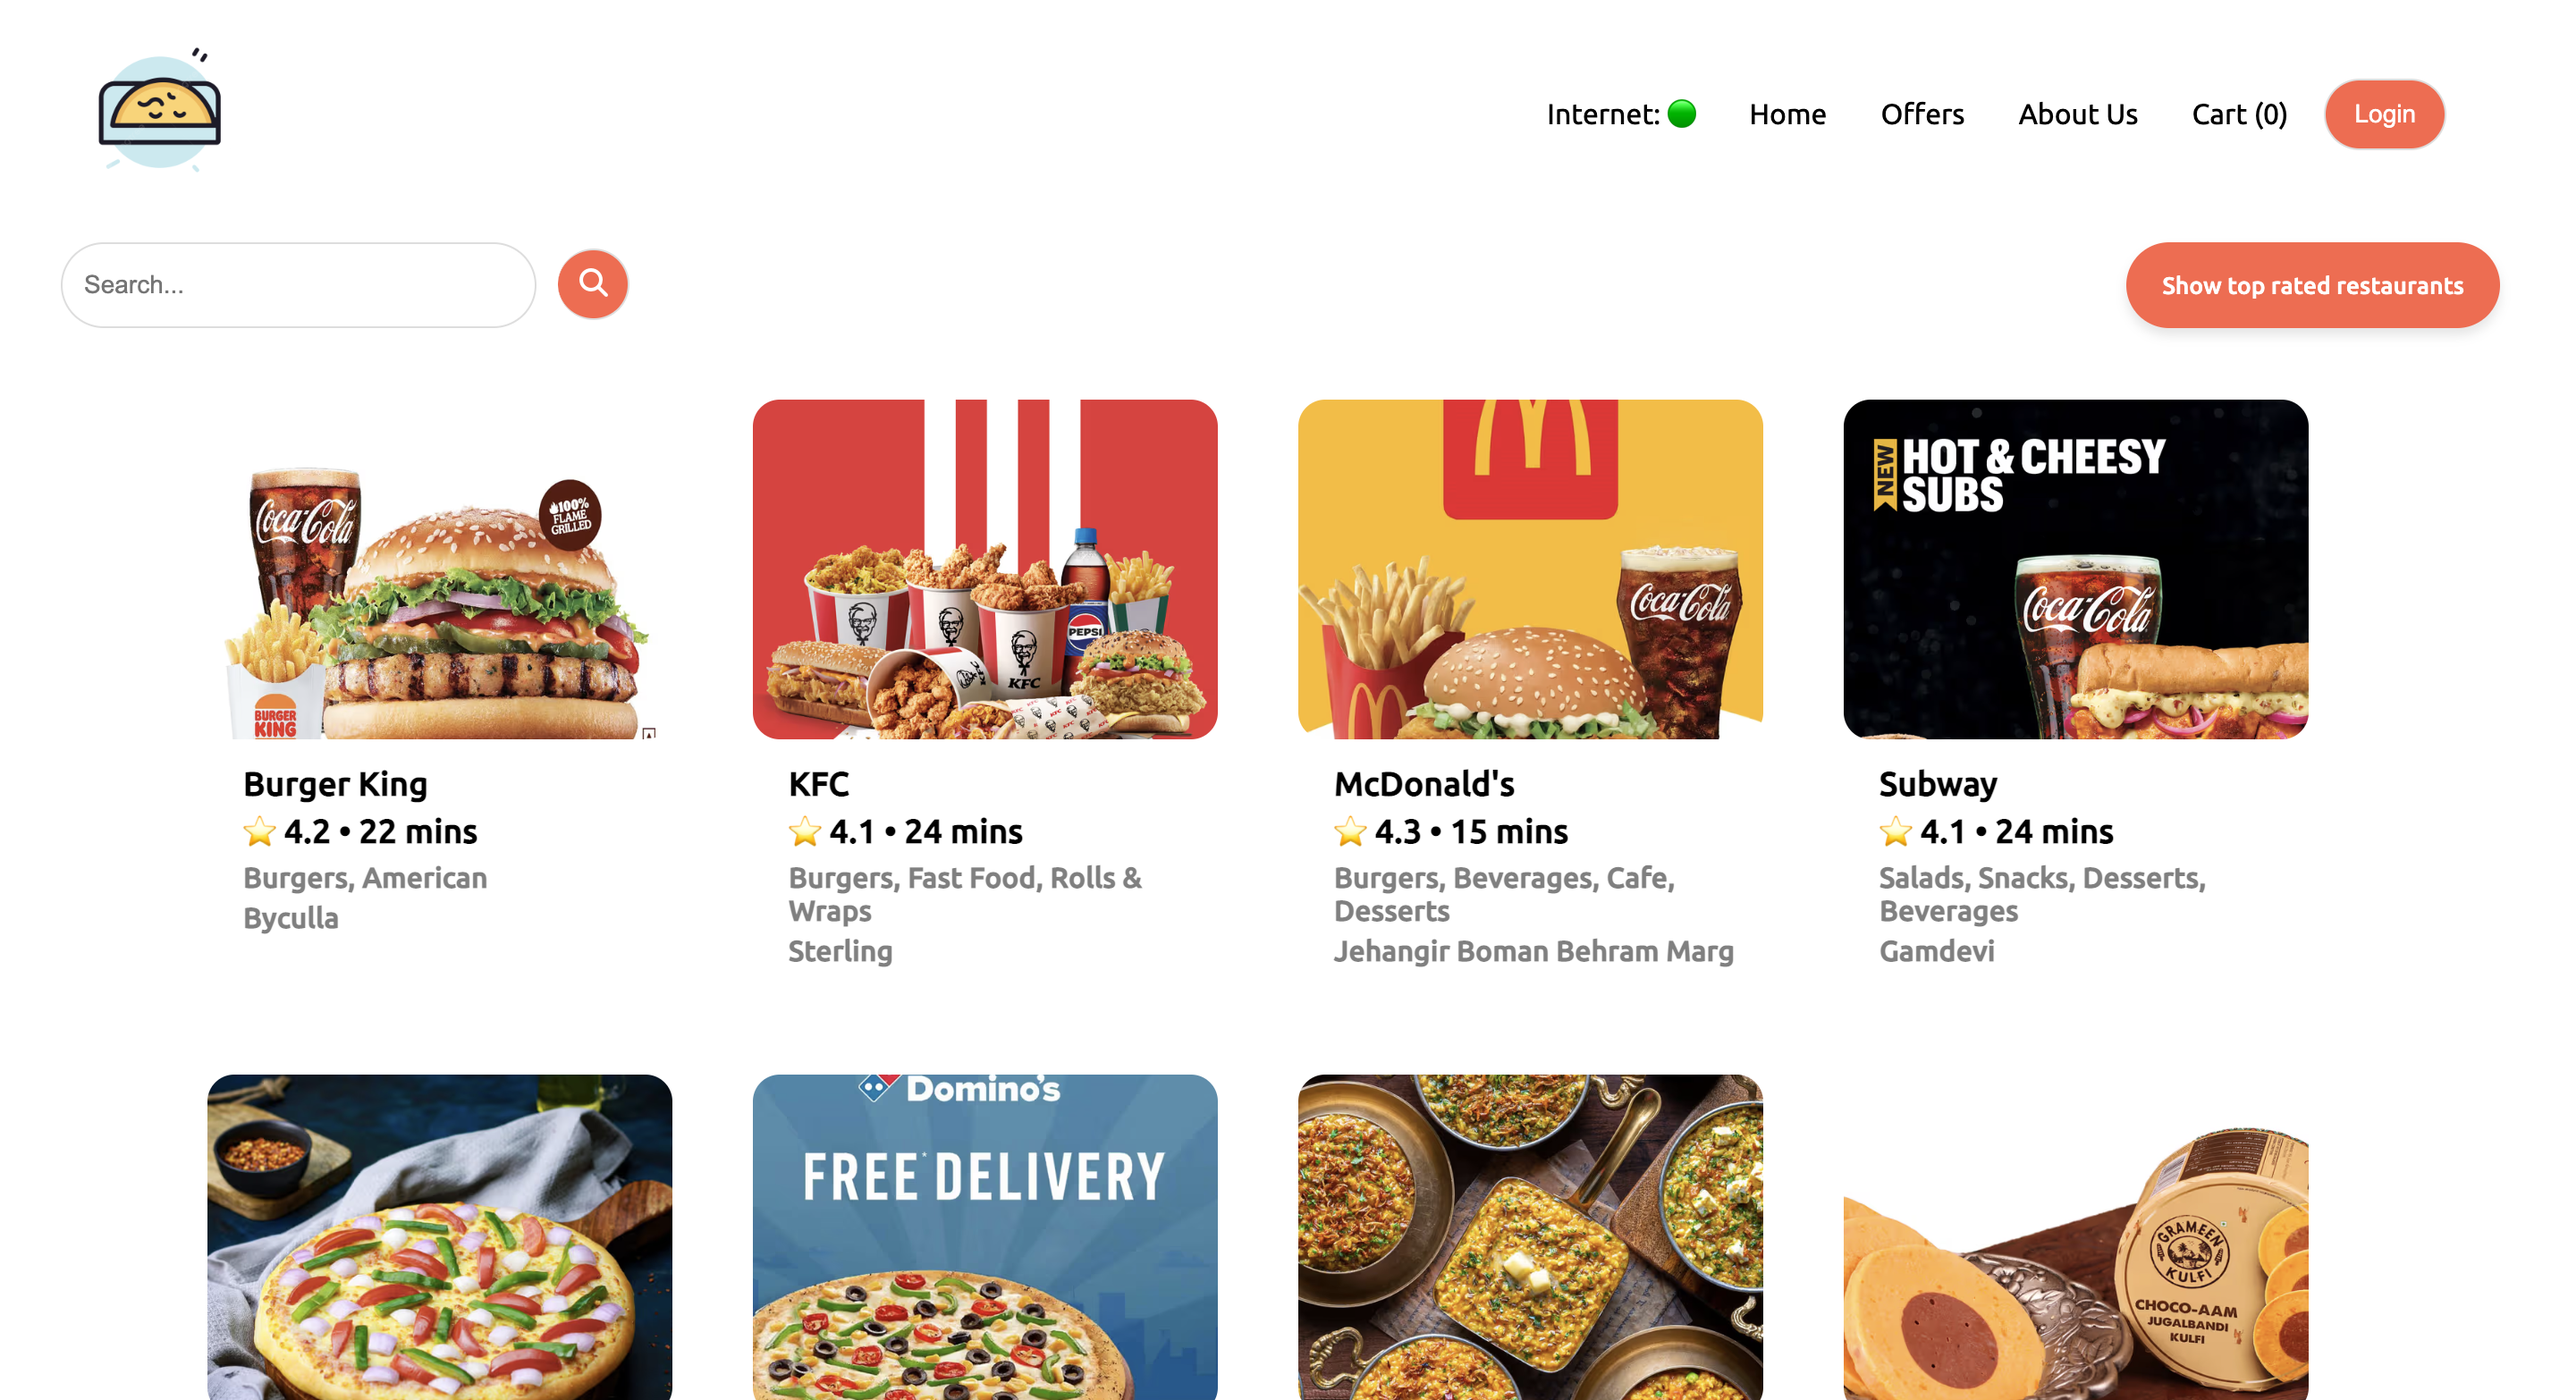
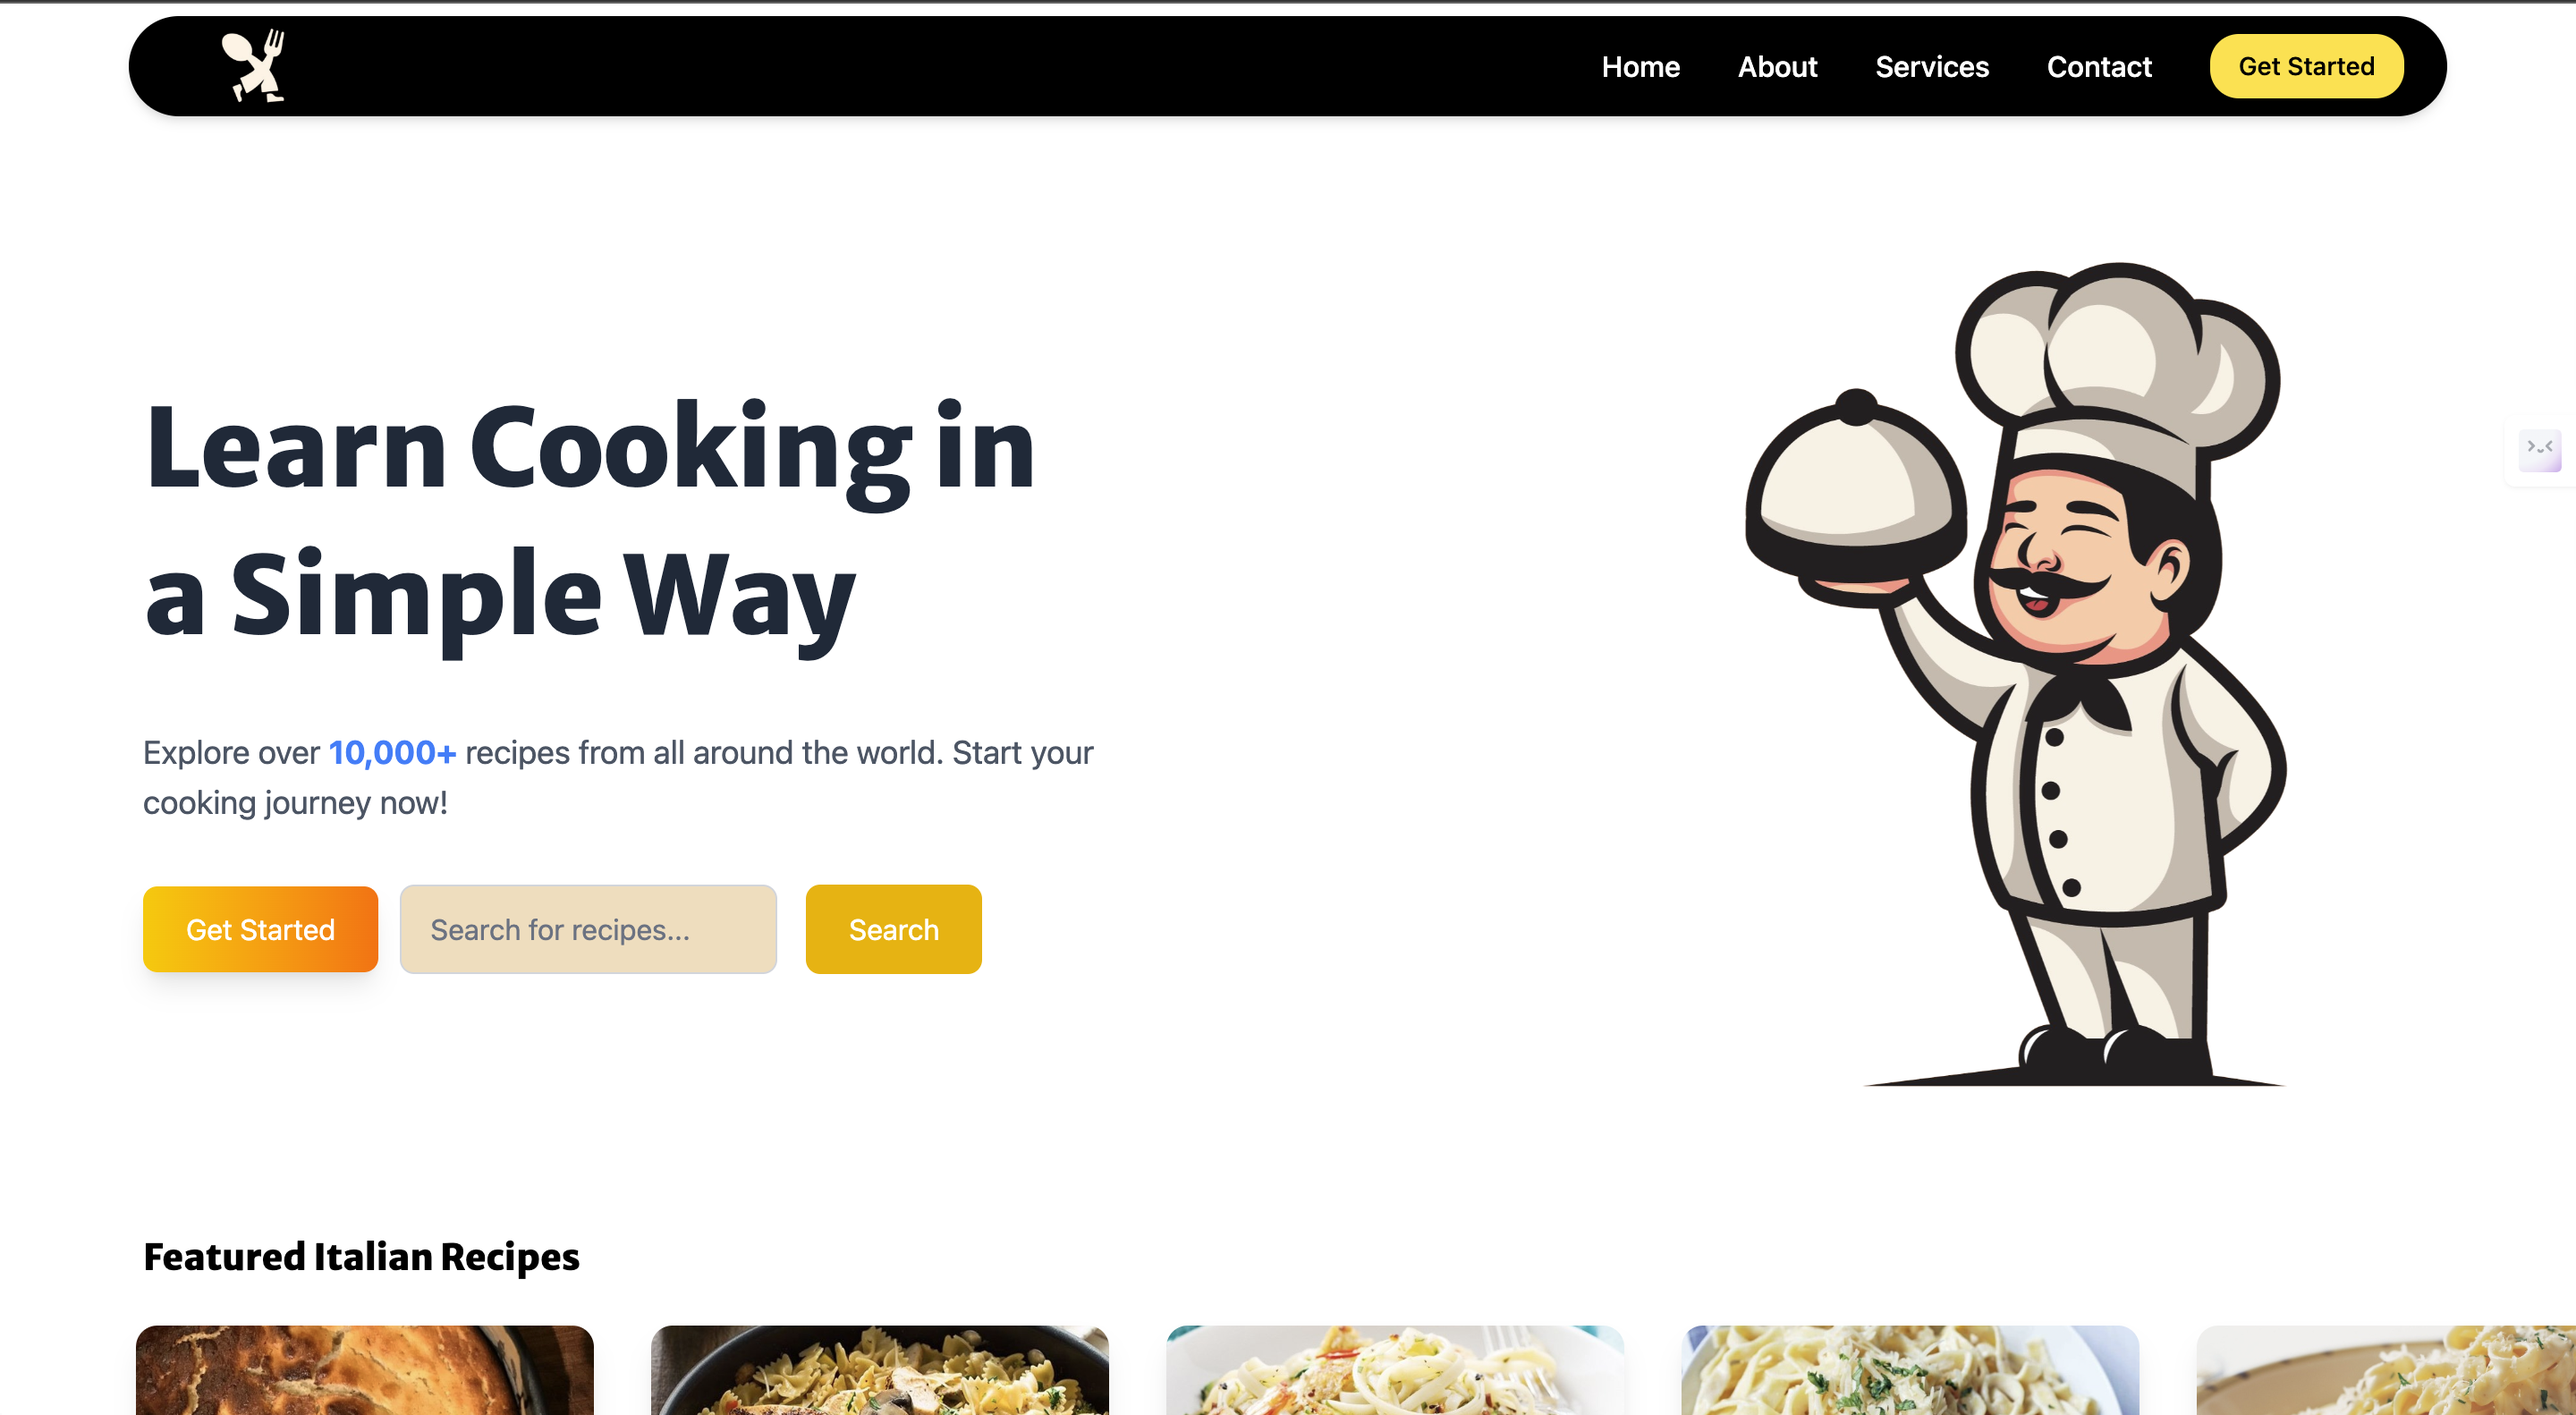
project updated

diff --git a/src/Components/Projects.jsx b/src/Components/Projects.jsx
@@ -165,30 +165,30 @@ const Projects = () => {
               Featured Project
             </h1>
             <h1 className="text-4xl font-bold mt-3 mb-5 josefin-sans-font">
-              Food App
+              Recipe Radar
             </h1>
             <p className="mt-4 bg-purple-700 bg-opacity-10 shadow-md shadow-purple-900 background-blur p-6 rounded-lg">
-              A Food App Frontend, a React-based web application that provides
-              users with a seamless experience to browse food from various
-              restaurants. The app fetches live data from Swiggy's API, ensuring
-              that users always have up-to-date information on available
-              restaurants, menus, and promotions.
+              A dynamic and responsive Recipe App built using ReactJS that
+              allows users to explore a wide variety of recipes, search by
+              categories, and view detailed recipe instructions. The app
+              integrates API calls to fetch real-time data and provides a smooth
+              user experience with Shimmer UI for loading states.
             </p>
             <div className="flex gap-6 mt-9 text-3xl md:justify-end">
               <a
-                href="https://github.com/LakshitAgarwal/Food-App"
+                href="https://github.com/LakshitAgarwal/RecipeRadar"
                 target="_blank"
               >
                 <FaGithub />
+              </a>
+              <a href="https://recipe-radar-gamma.vercel.app/" target="_blank">
+                <IoGlobeOutline />
               </a>
             </div>
           </div>
           {/* img */}
           <div className="md:w-[30%] w-[90%] mb-10 relative rounded-xl border-l-4 border-t-4 border-[#1a0523] shadow-2xl shadow-purple-700">
-            <a
-              href="https://github.com/LakshitAgarwal/Food-App"
-              target="_blank"
-            >
+            <a href="https://recipe-radar-gamma.vercel.app/" target="_blank">
               <img
                 src="/food.png"
                 alt="Project Screenshot"
